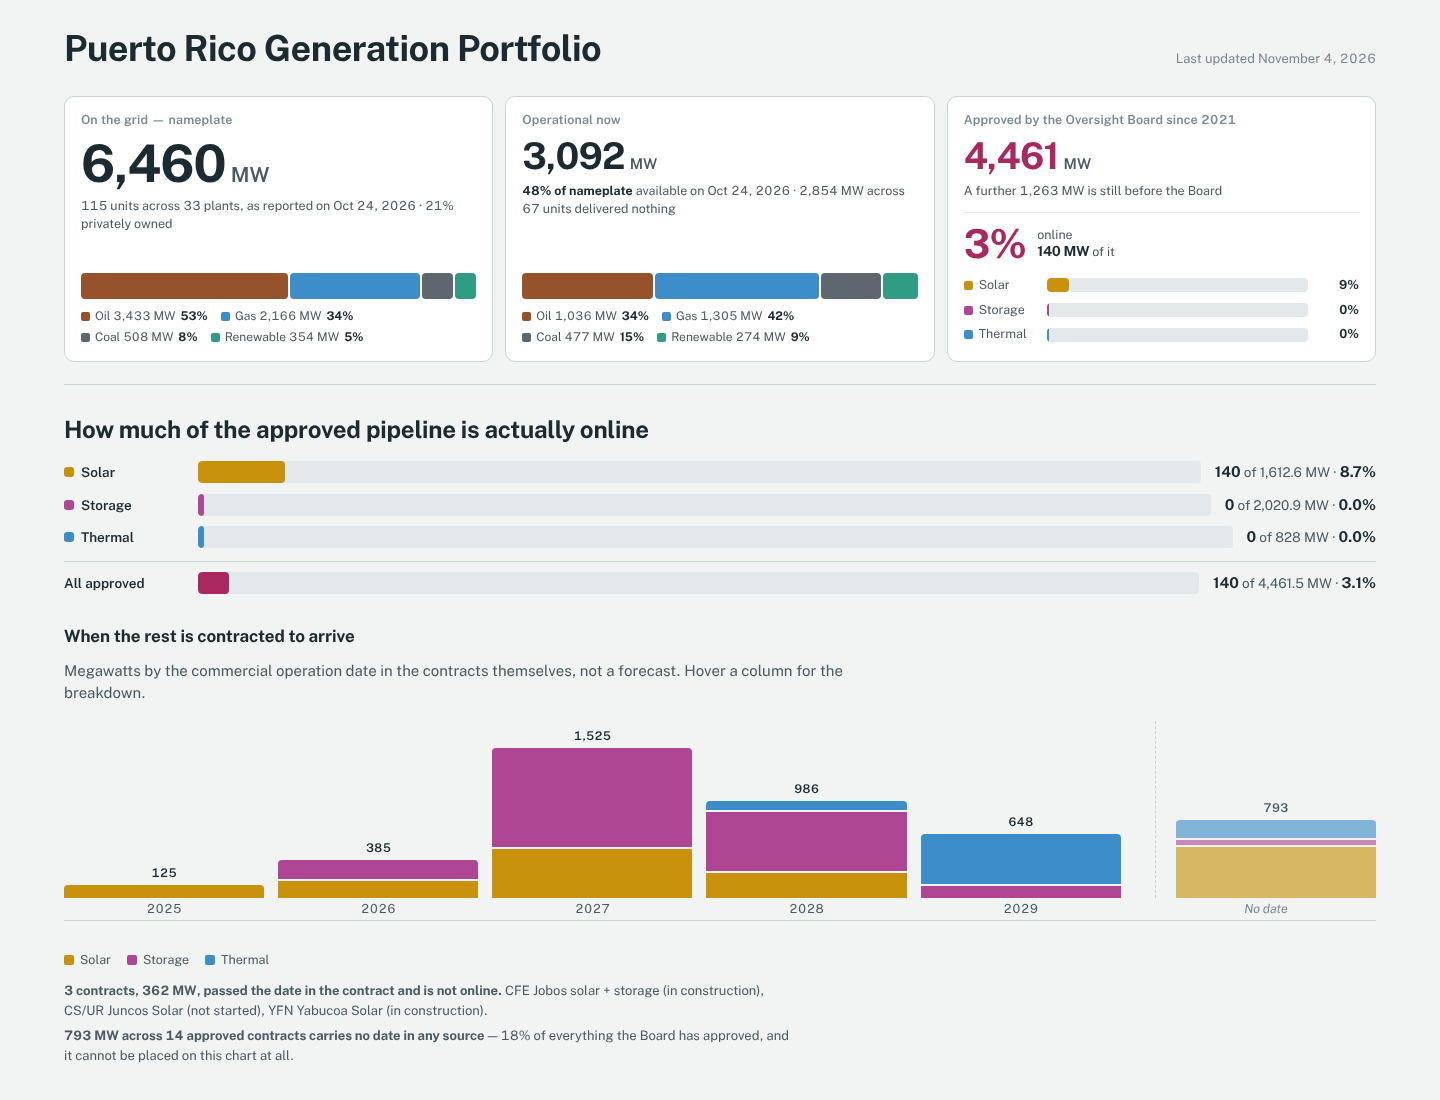
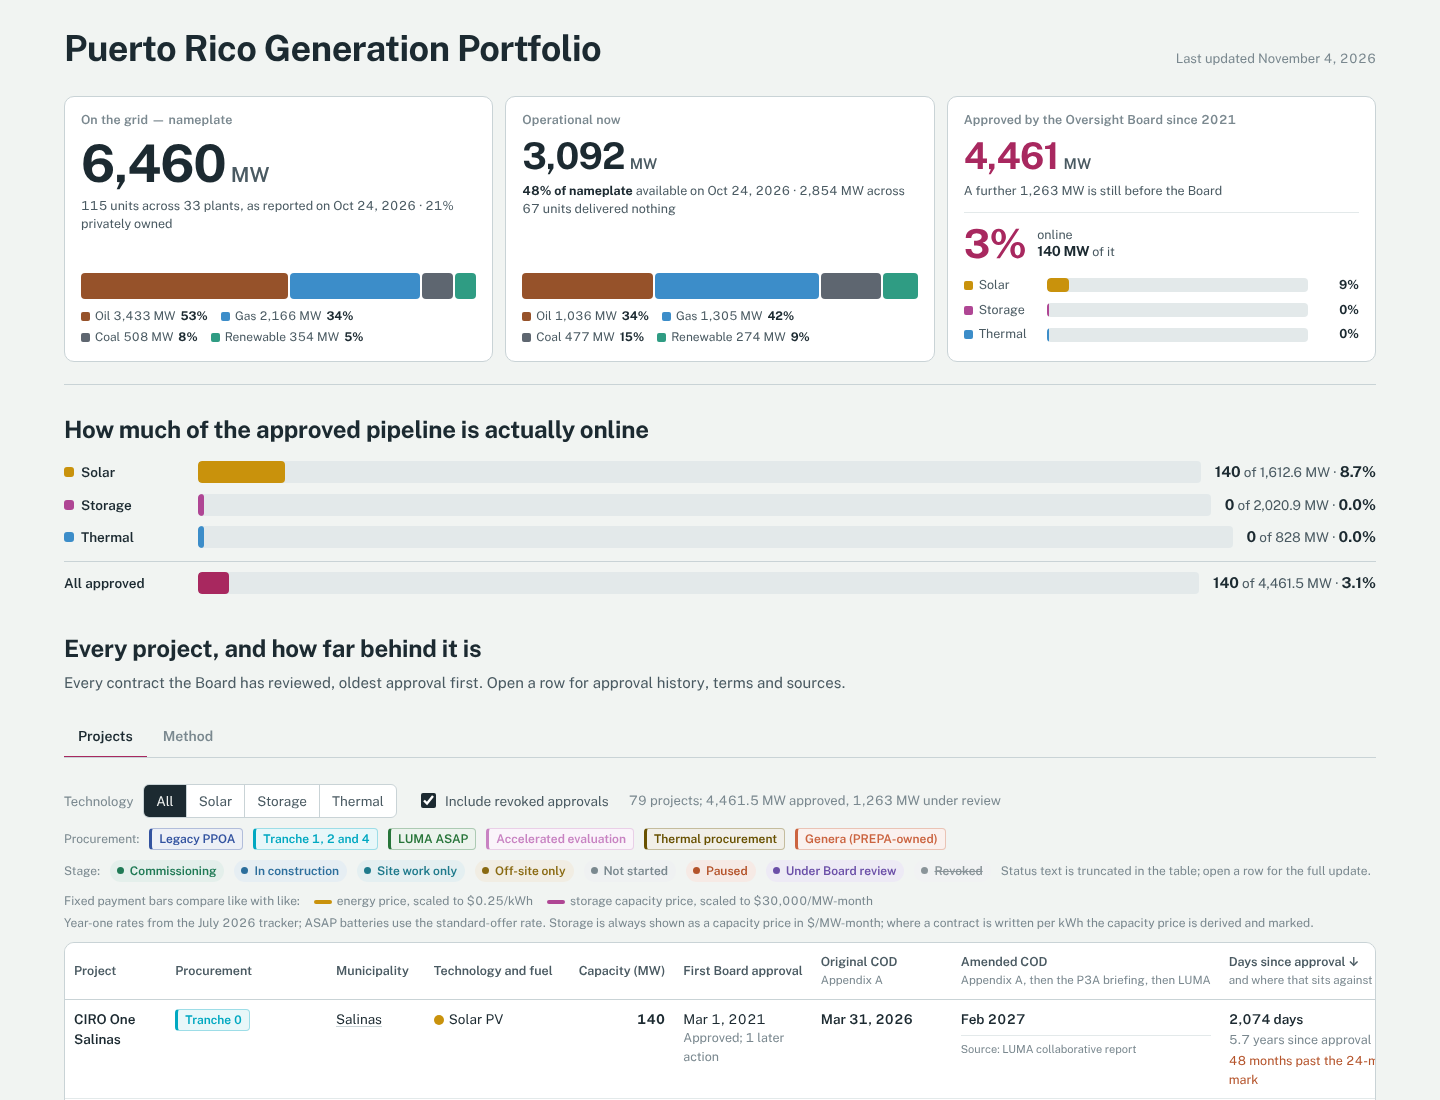
Remove the delivery schedule section
Takes out the "When the rest is contracted to arrive" chart added in the
previous commit: the section element, scheduleData and renderSchedule, the
render call, the CSS block and the Method bullet describing it. The COD
data it drew on is untouched and still drives the table columns and the
arrival model.

Everything else from the revision pass stays: the map's zero-count line,
the Amended COD header, the single TODAY constant, the superseded Data
checks blocks and the corrected unsited-project note.

Claude-Session: https://claude.ai/code/session_015HsgEsJf2mmFheXpV7MK58

diff --git a/index.html b/index.html
@@ -56,19 +56,6 @@ h1{font-size:clamp(24px,3.2vw,36px);line-height:1.12;font-weight:700;letter-spac
 .asof{color:var(--ink-3);font-size:13px;text-align:right;white-space:nowrap}
 .secttl{font-size:24px;letter-spacing:-.01em;margin:0 0 4px}
 .progress{margin:26px 0 0}
-.sched-sect{margin-top:30px}
-.yearbars.sched{height:200px;gap:14px;margin-top:16px}
-.yearbars.sched .yb{cursor:default}
-.yearbars.sched .yb .yv{font-weight:600;color:var(--ink)}
-.yearbars.sched .yb.none{margin-left:20px;padding-left:20px;border-left:1px dashed var(--rule)}
-.yearbars.sched .yb.none .col{opacity:.82}
-.yearbars.sched .yb.none .yl{color:var(--ink-3);font-style:italic}
-.yearbars.sched .yb.none .yv{color:var(--ink-2)}
-.schedkey{display:flex;flex-wrap:wrap;gap:6px 16px;margin-top:30px;font-size:12.5px;color:var(--ink-2);align-items:center}
-.schedkey span{display:inline-flex;align-items:center;gap:6px}
-.schedkey i{width:10px;height:10px;border-radius:2px;display:inline-block;flex:none}
-.schednotes{margin-top:12px;font-size:13px;color:var(--ink-2);max-width:92ch}
-.schednotes p{margin:6px 0;line-height:1.5}
 .pgrid{display:grid;gap:10px;margin:14px 0 0}
 .prow{display:grid;grid-template-columns:120px minmax(0,1fr) auto;gap:14px;align-items:center;font-size:13.5px}
 .prow .pl{display:inline-flex;align-items:center;gap:7px;color:var(--ink);font-weight:600}
@@ -308,7 +295,6 @@ footer{margin-top:28px;padding-top:14px;border-top:1px solid var(--rule);font-si
 </header>
 
 <section class="progress" id="progressSection"></section>
-<section class="progress sched-sect" id="scheduleSection"></section>
 
 
 <section class="pipeline" id="pipeline">
@@ -351,7 +337,6 @@ footer{margin-top:28px;padding-top:14px;border-top:1px solid var(--rule);font-si
         <li>Fuel is assigned by unit name, because the availability report does not state it. San Juan 5 and 6, the TM units, Costa Sur 5 and 6 and EcoEl&eacute;ctrica are treated as gas, AES as coal, the San Juan, Palo Seco and Aguirre steam units as heavy fuel oil, and every peaking and combined-cycle turbine as distillate. EIA codes the San Juan and Aguirre combined cycles as distillate instead, which would move about 1,070 MW from gas to oil; this is the least settled figure on the page.</li>
         <li>Construction stage is read from what the source documents report on site, not from any single progress percentage. LUMA's Table 7 publishes an interconnection-progress figure for 18 of these projects; it is held in the data but not shown, because the report gives no basis for it and it does not track the construction the status column describes.</li>
         <li>Commercial operation dates resolve through one waterfall: the Appendix A amendment first, then the P3A executive briefing of October 31, 2026, then LUMA's October 2026 collaborative report, then the original COD. Every cell names the document that supplied the date it shows. Quarters are taken at the quarter end.</li>
-        <li>The delivery chart places each approved contract in the year of the date the waterfall resolved to. It is a schedule, not a forecast: no slippage is added. Contracts with no date in any source are shown in a separate column rather than dropped, and a contract whose date has already passed stays in its contracted year and is called out beneath the chart.</li>
         <li>Days since approval counts from the first Board approval, with the position against a base case of commercial operation 24 months after approval underneath it.</li>
         <li>Project capacity is the contracted amount in the most recent Board letter or regulatory record. Storage is shown in MW of power, with MWh where disclosed, and is always priced as a capacity rate in dollars per MW-month so the batteries can be compared with one another.</li>
         <li>Energy prices are shown to two decimal places. Several contracts round to the same figure as a result, including the AES Salinas and Jobos solar rates, which both read $0.10/kWh against $0.1042 and $0.1038 in the tracker.</li>
@@ -1760,58 +1745,6 @@ function renderProgress(){
     </div>
 `;
 }
-// ---------- when the approved capacity is contracted to arrive ----------
-// Dates only, straight from the COD waterfall. No slippage is modelled here; that is the
-// arrival model's job. A contract with no date anywhere in the waterfall gets its own column,
-// because 793 MW of approved capacity with no date is a finding, not a rounding error.
-function scheduleData(){
-  const ap = PROJECTS.filter(live);
-  const dated = ap.filter(p=>p.codD), undated = ap.filter(p=>!p.codD);
-  const years = dated.map(p=>+p.codD.slice(0,4));
-  const lo = Math.min.apply(null, years), hi = Math.max.apply(null, years);
-  const rows = [];
-  for(let y=lo; y<=hi; y++){
-    const ps = dated.filter(p=>+p.codD.slice(0,4)===y);
-    const by = {}; ps.forEach(p=>p.comps.forEach(c=>by[c.f]=(by[c.f]||0)+c.mw));
-    rows.push({k:String(y), label:String(y), by, tot:d3.sum(ps,p=>p.mw), n:ps.length, past:y<TODAY_Y});
-  }
-  const uby = {}; undated.forEach(p=>p.comps.forEach(c=>uby[c.f]=(uby[c.f]||0)+c.mw));
-  rows.push({k:"none", label:"No date", by:uby, tot:d3.sum(undated,p=>p.mw), n:undated.length, none:true});
-  const lapsed = dated.filter(p=>p.codD < TODAY && !p.online);
-  return {rows, lapsedN:lapsed.length, lapsedMW:d3.sum(lapsed,p=>p.mw), lapsed,
-          undatedN:undated.length, undatedMW:d3.sum(undated,p=>p.mw)};
-}
-function renderSchedule(){
-  const el = document.getElementById("scheduleSection"); if(!el) return;
-  const S = scheduleData();
-  const max = d3.max(S.rows,r=>r.tot)||1;
-  const bar = r => {
-    const parts = TECHG.filter(([f])=>r.by[f]);
-    return `<div class="yb sb${r.none?" none":""}" data-k="${r.k}">
-      <span class="yv">${Math.round(r.tot).toLocaleString("en-US")}</span>
-      <span class="col" style="height:${Math.max(r.tot/max*150,3)}px">${parts.map(([f,l,c])=>`<i style="height:${r.by[f]/r.tot*100}%;background:var(${c})"></i>`).join("")}</span>
-      <span class="yl">${r.label}</span></div>`;
-  };
-  el.innerHTML = `
-    <h2 class="secttl">When the rest is contracted to arrive</h2>
-    <p class="dek" style="max-width:92ch">Megawatts by the commercial operation date in the contracts themselves, not a forecast. Hover a column for the technology breakdown.</p>
-    <div class="yearbars sched">${S.rows.map(bar).join("")}</div>
-    <div class="schedkey">${TECHG.map(([f,l,c])=>`<span><i style="background:var(${c})"></i>${l}</span>`).join("")}</div>
-    <div class="schednotes">
-      ${S.lapsedN?`<p><b>${S.lapsedN} contract${S.lapsedN===1?"":"s"}, ${Math.round(S.lapsedMW).toLocaleString("en-US")} MW, passed the date in the contract and is not online.</b> ${S.lapsed.map(p=>esc(p.name)+" ("+STAGES[p.stage].l.toLowerCase()+")").join(", ")}.</p>`:""}
-      <p><b>${Math.round(S.undatedMW).toLocaleString("en-US")} MW across ${S.undatedN} approved contracts carries no date in any source</b> &mdash; ${Math.round(S.undatedMW/d3.sum(PROJECTS.filter(live),p=>p.mw)*100)}% of everything the Board has approved, and it cannot be placed on this chart at all.</p>
-    </div>`;
-  const byK = Object.fromEntries(S.rows.map(r=>[r.k,r]));
-  el.querySelectorAll(".sb").forEach(node=>{
-    const r = byK[node.dataset.k];
-    const lines = TECHG.filter(([f])=>r.by[f])
-      .map(([f,l,c])=>`<span style="display:inline-block;width:8px;height:8px;border-radius:2px;background:var(${c});margin-right:5px"></span>${l}: ${fmt(r.by[f])} MW`).join("<br>");
-    const head = r.none ? `<b>No commercial operation date</b>` : `<b>${r.label} &mdash; ${fmt(r.tot)} MW due</b>`;
-    const tip = `${head}<br>${r.n} contract${r.n===1?"":"s"}${r.none?`, ${fmt(r.tot)} MW`:""}<br>${lines}`;
-    node.addEventListener("mousemove", ev=>showTip(ev, tip));
-    node.addEventListener("mouseleave", hideTip);
-  });
-}
 function renderApprovalTotals(){
   const years = d3.range(2021, 2027);
   const data = years.map(y=>{
@@ -2145,7 +2078,7 @@ document.getElementById("slipRange").addEventListener("input",e=>{
 });
 document.getElementById("inclReview").addEventListener("change",e=>{ mstate.review=e.target.checked; renderModel(); });
 window.addEventListener("hashchange",()=>{ const h=location.hash.slice(1); if(TABS[h]) showTab(h); });
-function render(){ drawShade(); drawMarkers(); renderPanel(); renderProgress(); renderSchedule(); renderApprovalTotals(); renderTable(); renderModel(); if(lastMuni!==state.muni){ lastMuni=state.muni; zoomTo(); } }
+function render(){ drawShade(); drawMarkers(); renderPanel(); renderProgress(); renderApprovalTotals(); renderTable(); renderModel(); if(lastMuni!==state.muni){ lastMuni=state.muni; zoomTo(); } }
 
 const sel = document.getElementById("muniSelect");
 muniNames.forEach(n=>{ const o=document.createElement("option"); o.value=n; o.textContent=n; sel.appendChild(o); });
